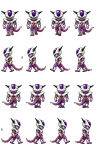
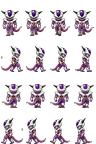
Per-boss side-facing: correct the mixed source orientations
Source side rows face inconsistently (some right, some left), so a single
global flip inverted half of them. Determined per-boss which sources already
face right (FACES_RIGHT) vs face left, verified against user feedback, and
regenerated so every boss's right row faces right and left row faces left.

diff --git a/tools/process_bosses.py b/tools/process_bosses.py
@@ -43,6 +43,14 @@ MAP = {
  # invader excluded: dark-on-dark source does not key cleanly; keeps its placeholder
 }
 ROWS = {"GreenSlime":7,"SquidKid":4,"ShadowBrute":8,"Mummy":5}
+# Sources whose "RIGHT SIDE" row is already drawn facing RIGHT (tail/hair trails left).
+# For these the right output row is the source as-is and the LEFT row is mirrored; every
+# other source faces left, so its right row is the one that gets mirrored. Determined by
+# inspecting each source side frame.
+FACES_RIGHT = {"saibamen","nappa","jeice","captainginyu","coolerfirst","destroyer",
+               "broly","celljr","cellimperfect","cellperfect","metalcooler","guldo",
+               "friezafirst","cellsemiperfect","bojack","dabura","coolerfinal","superbuu",
+               "invader"}
 # Standard 4-direction layout: down, right, up, left. The left row is the right-side art
 # mirrored, so a monster that reads a dedicated left row shows a correctly-facing profile
 # instead of missing/duplicated frames (bosses that "could only turn one way").
@@ -129,13 +137,17 @@ def build(name, kind, fw, fh, rows):
     Wmax = max(im.width for im in used); Hmax = max(im.height for im in used)
     scale = min((fh-1)/Hmax, (fw-2)/Wmax)
     sheet = Image.new("RGBA", (4*fw, nrows*fh), (0,0,0,0))
+    faces_right = name in FACES_RIGHT
     for row in range(nrows):
         facing = ROW_FACING[row % len(ROW_FACING)]
-        # The source "RIGHT SIDE" row is drawn facing LEFT (the character's right side is
-        # shown). The game reads row 1 for AnimateRight and row 3 for AnimateLeft as dedicated
-        # rows (no auto-flip), so the RIGHT row must be the source mirrored to face right, and
-        # the LEFT row is the source in its natural left-facing orientation.
-        flip = facing == 1            # right = the left-facing source art, mirrored
+        # The game reads row 1 for AnimateRight and row 3 for AnimateLeft as dedicated rows
+        # (no auto-flip). The right row must face right and the left row must face left. Most
+        # sources draw their side row facing left, so the right row is the mirror; sources in
+        # FACES_RIGHT already face right, so there the left row is the mirror instead.
+        if faces_right:
+            flip = facing == 3        # source faces right: mirror the LEFT row
+        else:
+            flip = facing == 1        # source faces left: mirror the RIGHT row
         src_facing = 1 if facing == 3 else facing
         frames = facings.get(src_facing) or facings.get(2) or []
         for col in range(4):
